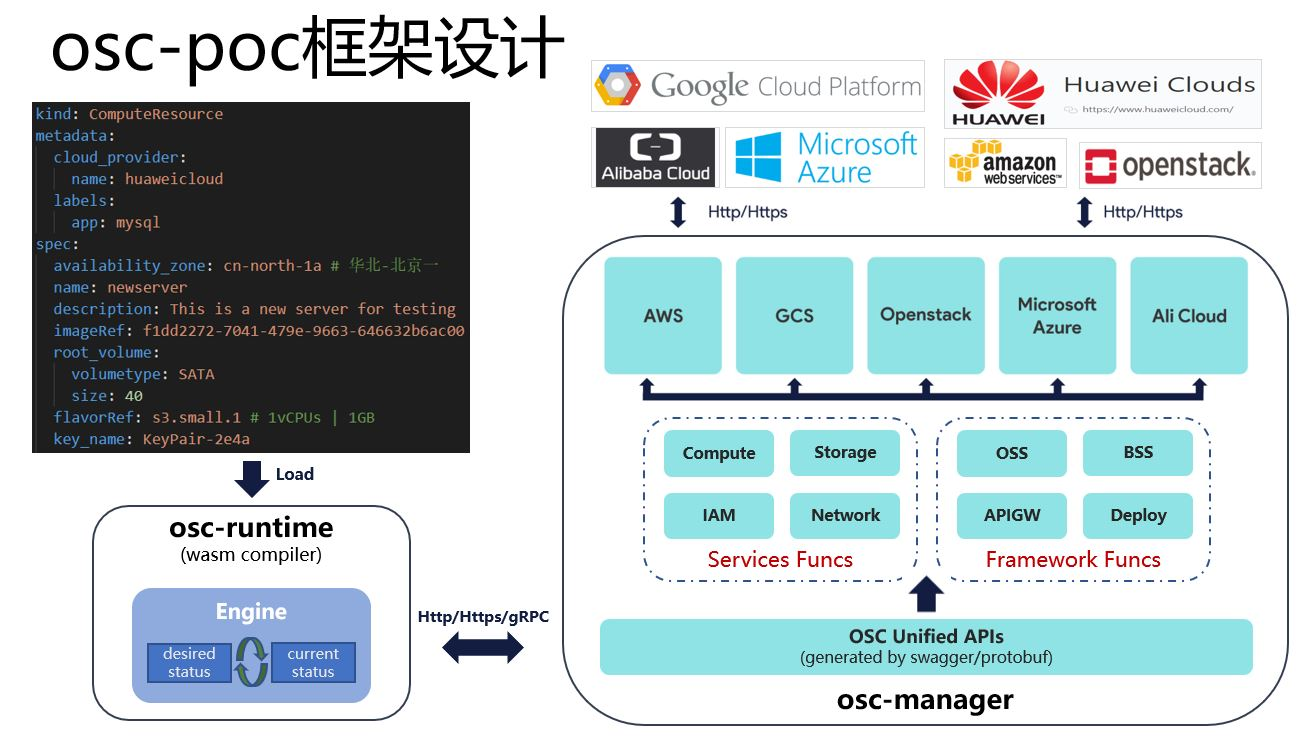
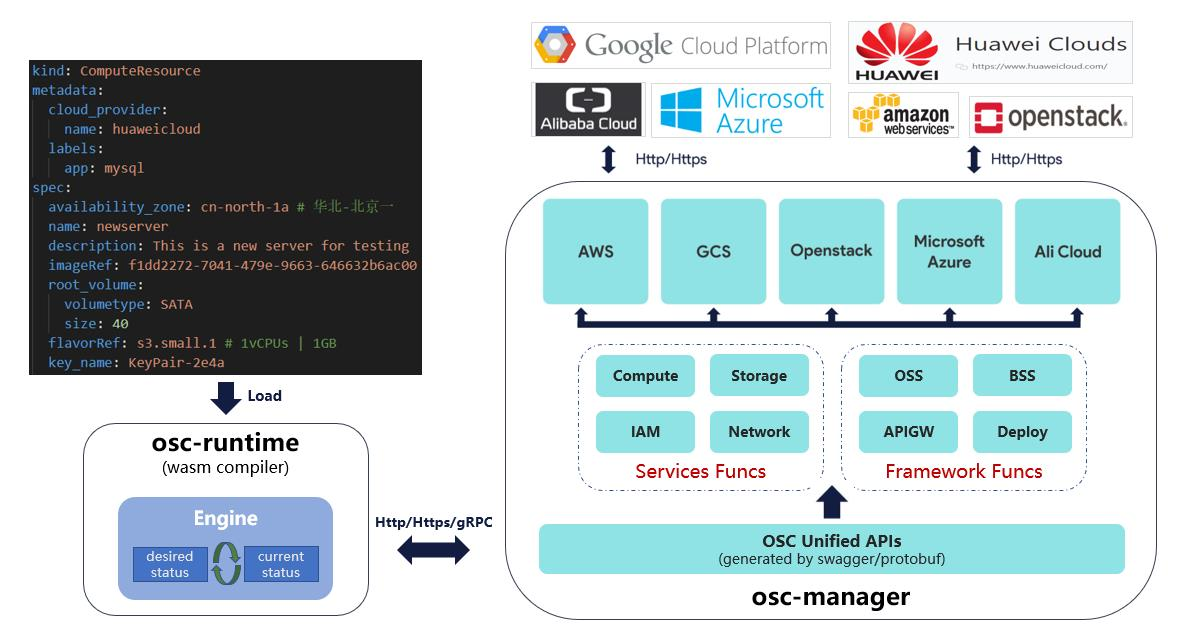
Update README.md

Changed region(s): [[0.0, 0.0, 0.9966, 0.9858], [0.0623, 0.6871, 0.0934, 0.717]]

diff --git a/README.md b/README.md
@@ -11,6 +11,10 @@ High level architecture of the OSC prototype system:
 
 <img src="architecture.JPG" alt="architecture" width="500"/>
 
+In the short future, the architecture would eventually be designed as below:
+
+<img src="future.JPG" alt="future" width="500"/>
+
 ## Project status
 This project should be considered **experimental** at the very early stage, all rich features are under active development. Here is the current feature support matrix:
 
@@ -25,7 +29,7 @@ Please notice that currently this project is only tested on Ubuntu system, so `U
 
 ### Install system packages
 ```shell
-sudo apt-get update && sudo apt-get install -y build-essential gcc libssl-dev pkg-config
+sudo apt-get update && sudo apt-get install -y build-essential gcc cmake libssl-dev pkg-config
 ```
 
 ### Install Golang (v1.12.1)
